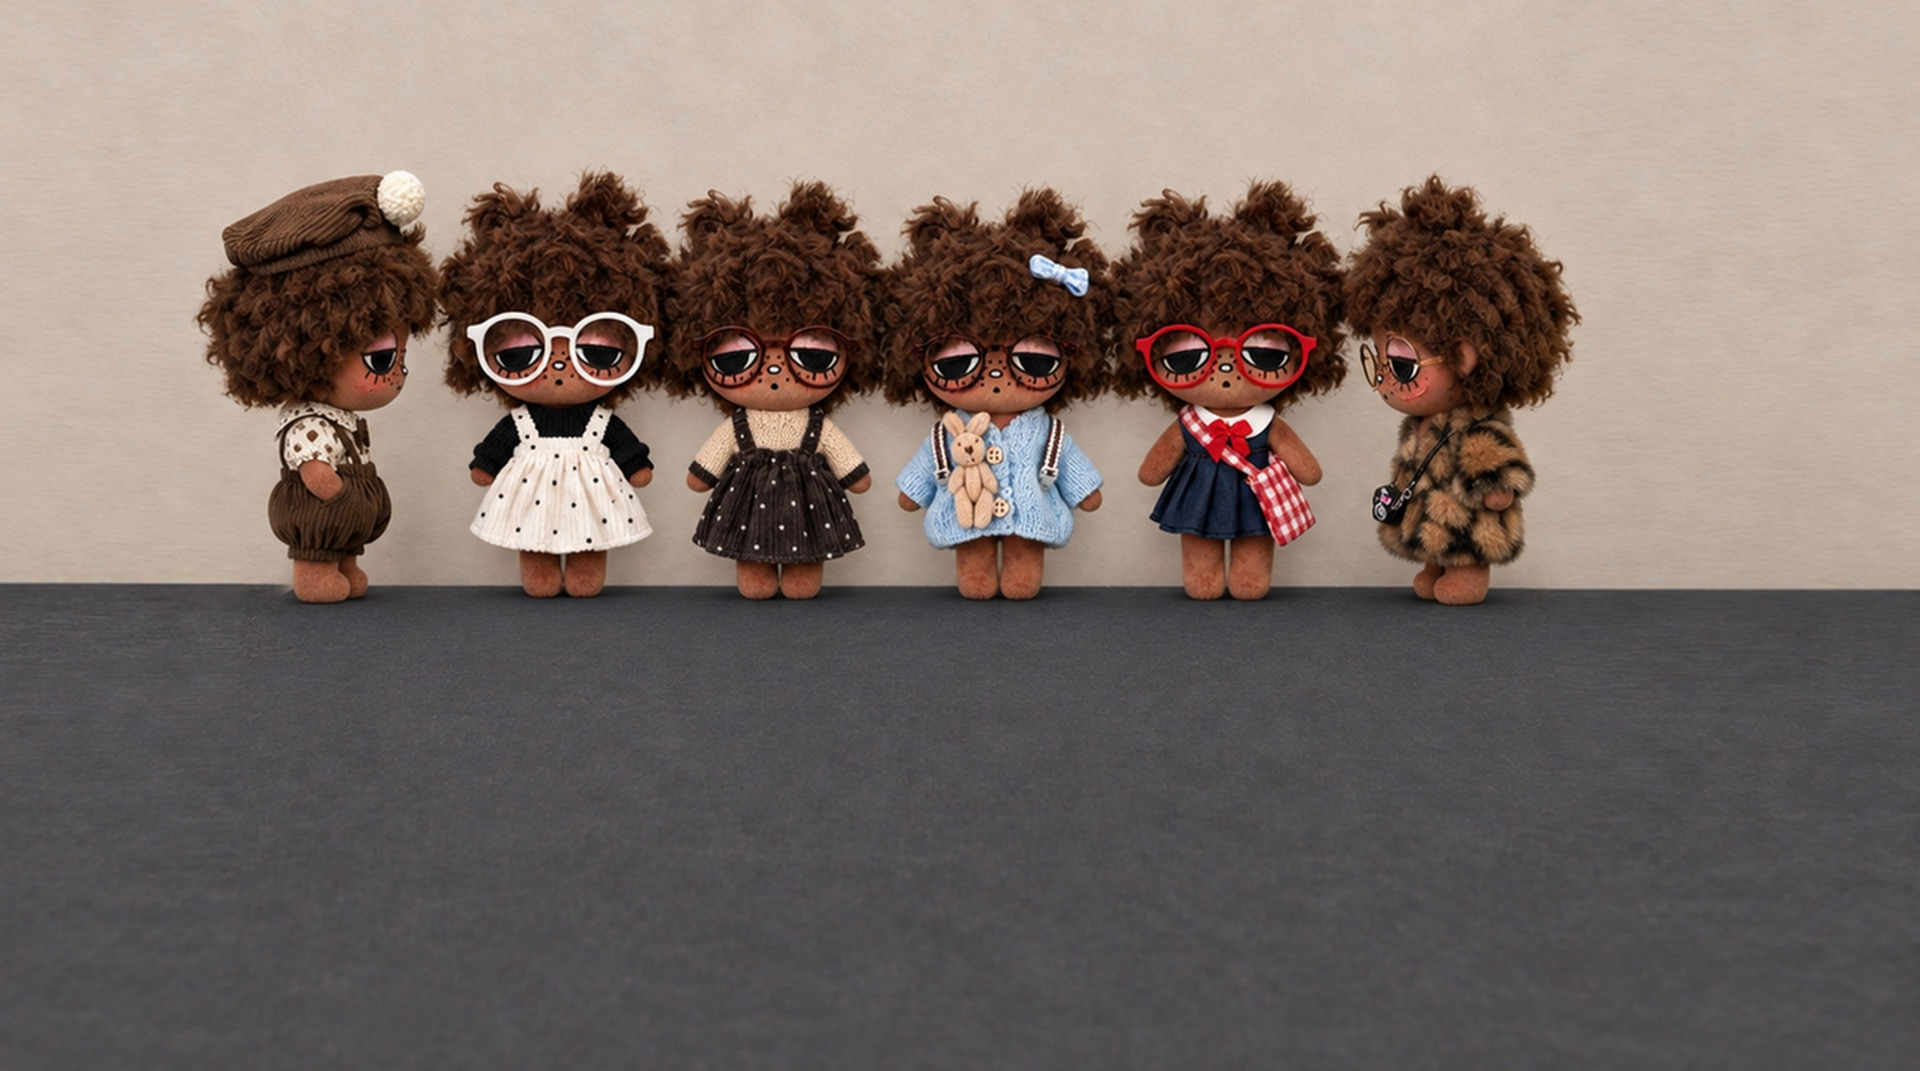
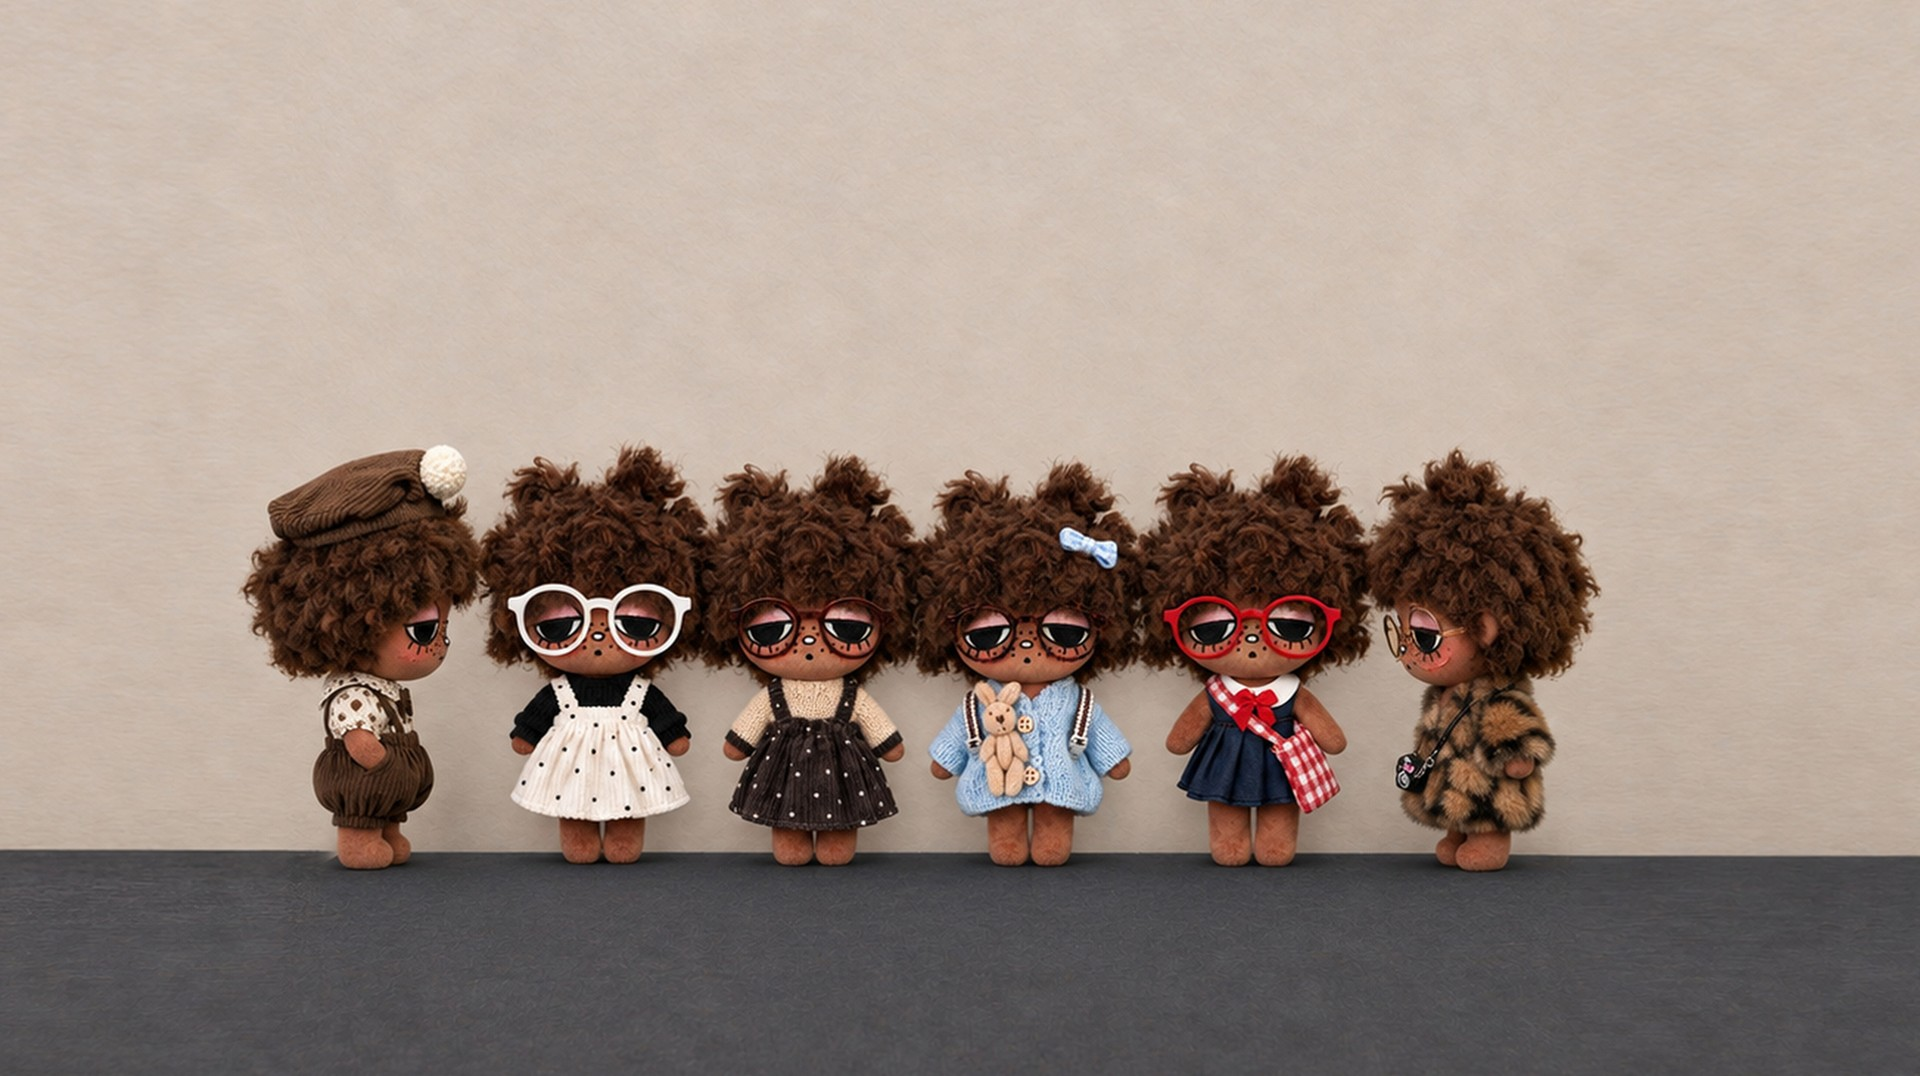
fix(hero): match provided design references for all 5 slides
Root causes found by comparing user-provided correct/incorrect screenshots:
- Series heroes (slides 3-5) used raw crops where dolls sat high with 25-44%
  empty bottom space, so titles overlapped the dolls. Re-composited heroes
  from the click-page PSD layers (bg + doll layers) so dolls sit centered
  (content 33-91% / 40-82% / 43-100% of frame, matching design refs).
- Text positions were computed against the full viewport instead of the
  image area below the sticky header; now anchored via
  calc(var(--header-h) + Nvh) to design-measured percentages.
- Slide 1: wordmark at 15.3% of image area, two-line slogan at 30.7%
  (copy confirmed as 让想象落地/让陪伴发生 from the reference shots).
- Slide 2 promo: doll enlarged (60% width, bottom-anchored, cropped to
  subject), bags grid 45% width at y15-75%, copy PNG at y72-92%.
Verified via headless-Chrome screenshots of all 5 slides (desktop 1440x900
and mobile 375x812) with pixel/OCR comparison against the references.

diff --git a/src/components/home/HeroCarousel.tsx b/src/components/home/HeroCarousel.tsx
@@ -10,12 +10,14 @@ export type HeroSlide = HeroSlideData;
 const SWIPE_THRESHOLD = 40;
 
 /**
- * 首页头图轮播(设计稿版式):整图 object-contain 居中(不截断,补图边缘底色)。
- * 屏 1:is.offy 手写体字标(顶部居中)+ 两行 slogan「让想象发生/让陪伴发生」;
- * 屏 2:PSD「头图-活动奖励」合成屏(白底 + 左玩偶 + 右 2×2 包包图 + 左下文案 PNG);
- * 屏 3-5:系列整图 + 顶部居中「OFFY+系列名」标题 PNG,整图可点跳对应系列页;
- * 底部居中横线指示条 + 右下角 ←/→ 深色箭头;自动播放 + 交叉淡入 + 触摸滑动。
- * 所有文字层 top ≥ 128px,避开 sticky header(112px)遮挡。
+ * 首页头图轮播(设计稿精确还原,5 屏)。
+ * 布局基准:图片区 = 视口去掉 sticky header(112px)后的区域,
+ * 文字位置全部以图片区百分比定位(与设计稿实测一致):
+ * - 屏 1:is.offy 字标顶 15% 图区(高 8%),slogan 两行顶 30%/41%(字高 6.4%);
+ * - 屏 2:促销合成屏 —— 玩偶 x12-45%/y15-75%,包包 2×2 x55-95%/y20-70%,
+ *   文案 PNG 底部 y82%;
+ * - 屏 3-5:系列图(PSD 头图区合成,玩偶垂直居中)+ 标题 PNG 顶 23% 图区。
+ * 底部横线指示条 + 右下角 ←/→ 箭头;自动播放 + 交叉淡入 + 触摸滑动。
  */
 export function HeroCarousel({
   slides,
@@ -37,43 +39,41 @@ export function HeroCarousel({
     return () => clearInterval(id);
   }, [slides.length, intervalMs]);
 
-  /** 屏 2:PSD「头图-活动奖励」合成屏(白底 + 左玩偶 + 右 2×2 包包图 + 文案 PNG)。 */
+  /** 屏 2:促销合成屏(白底 + 左大玩偶 + 右 2×2 包包 + 底部文案 PNG)。 */
   const renderPromo = (s: HeroSlide) => (
     <div className="absolute inset-0 bg-white">
-      <div className="relative mx-auto flex h-full max-w-7xl items-center justify-center gap-8 px-6 md:gap-16 lg:px-8">
-        {/* 左:玩偶图(PSD offy_middle_character) */}
-        <div className="relative h-[70%] w-[46%] max-w-2xl">
-          <Image
-            src={s.promo!.doll}
-            alt=""
-            fill
-            priority
-            sizes="(max-width: 768px) 46vw, 40vw"
-            className="object-contain object-center"
-          />
-        </div>
-        {/* 右:2×2 包包图(PSD offy包电商图1-4) */}
-        <div className="grid w-[34%] max-w-md grid-cols-2 gap-3 md:gap-5">
-          {s.promo!.bags.map((bag) => (
-            <div key={bag} className="relative aspect-square">
-              <Image
-                src={bag}
-                alt=""
-                fill
-                sizes="(max-width: 768px) 17vw, 12vw"
-                className="object-contain object-center"
-              />
-            </div>
-          ))}
-        </div>
+      {/* 玩偶(PSD 布局: 宽 63% 视口,贴底;本体已裁切) */}
+      <div className="absolute left-[-5%] top-[10%] h-[70%] w-[60%]">
+        <Image
+          src={s.promo!.doll}
+          alt=""
+          fill
+          priority
+          sizes="60vw"
+          className="object-contain object-bottom"
+        />
       </div>
-      {/* 左下:促销文案 PNG(PSD 文字层导出,精确字体) */}
-      <div className="absolute bottom-[10%] left-6 md:left-12">
+      {/* 包包 2×2: x 50-95%, y 15-75%(设计稿) */}
+      <div className="absolute right-[5%] top-[15%] grid w-[45%] grid-cols-2 gap-4 md:gap-6">
+        {s.promo!.bags.map((bag) => (
+          <div key={bag} className="relative aspect-square">
+            <Image
+              src={bag}
+              alt=""
+              fill
+              sizes="20vw"
+              className="object-contain object-center"
+            />
+          </div>
+        ))}
+      </div>
+      {/* 文案 PNG: 左下(设计稿 y 72-92%,x 12% 起) */}
+      <div className="absolute bottom-[8%] left-[12%]">
         {/* eslint-disable-next-line @next/next/no-img-element */}
         <img
           src={s.promo!.text}
           alt={locale === "zh" ? "即日起，任意购买三个公仔以上，送offy包包" : "Buy any 3 plush dolls, get an Offy bag free"}
-          className="w-[46vw] max-w-xl md:w-[30vw]"
+          className="w-[52vw] max-w-3xl"
         />
       </div>
     </div>
@@ -81,28 +81,33 @@ export function HeroCarousel({
 
   const renderOverlay = (s: HeroSlide) => (
     <>
-      {/* 屏 1:is.offy 手写体字标(顶部居中,PSD LOGO 图层)+ 两行 slogan */}
+      {/* 屏 1:is.offy 字标(顶 15.3% 图区)+ 两行 slogan(顶 30.7% 图区)。
+          定位基准:图片区 = 视口 - header(112px),top = header + pct*87.6vh。 */}
       {s.wordmark && (
-        <div className="absolute inset-x-0 top-[15%] flex flex-col items-center gap-4 md:top-[16%] md:gap-6">
-          {/* eslint-disable-next-line @next/next/no-img-element */}
-          <img
-            src="/assets/brand/is-offy-wordmark.png"
-            alt="is.offy"
-            className="w-[34%] max-w-md md:w-[22%]"
-          />
-          <p className="whitespace-pre-line text-center text-lg font-bold leading-relaxed tracking-[0.2em] text-ink md:text-2xl">
-            {locale === "zh" ? s.text!.zh : s.text!.en}
-          </p>
-        </div>
+        <>
+          <div className="absolute inset-x-0 top-[calc(var(--header-h)+13.4vh)] flex justify-center">
+            {/* eslint-disable-next-line @next/next/no-img-element */}
+            <img
+              src="/assets/brand/is-offy-wordmark.png"
+              alt="is.offy"
+              className="h-[7.6vh] w-auto max-w-none"
+            />
+          </div>
+          <div className="absolute inset-x-0 top-[calc(var(--header-h)+24.5vh)] px-6 text-center">
+            <p className="whitespace-pre-line text-[5.6vh] font-bold leading-[1.65] tracking-[0.15em] text-ink">
+              {locale === "zh" ? s.text!.zh : s.text!.en}
+            </p>
+          </div>
+        </>
       )}
-      {/* 屏 3-5:「OFFY + 系列名」标题 PNG(PSD 文字层导出,顶部居中) */}
+      {/* 屏 3-5:标题 PNG(顶 23.4% 图区) */}
       {s.titleImage && (
-        <div className="absolute inset-x-0 top-[15%] flex justify-center px-6 md:top-[16%]">
+        <div className="absolute inset-x-0 top-[calc(var(--header-h)+20.5vh)] flex justify-center px-6">
           {/* eslint-disable-next-line @next/next/no-img-element */}
           <img
             src={s.titleImage}
             alt={locale === "zh" ? "OFFY 系列头图" : "OFFY series hero"}
-            className="w-[42%] max-w-lg md:w-[28%]"
+            className="w-[42%] max-w-xl md:w-[38%]"
           />
         </div>
       )}

diff --git a/src/components/home/HeroCarousel.test.tsx b/src/components/home/HeroCarousel.test.tsx
@@ -30,7 +30,7 @@ const slides: HeroSlide[] = [
     image: "/assets/hero/hero-01.jpg",
     bg: "#babbb9",
     wordmark: true,
-    text: { zh: "让想象发生\n让陪伴发生", en: "Let imagination happen\nLet companionship happen" },
+    text: { zh: "让想象落地\n让陪伴发生", en: "Let imagination land\nLet companionship happen" },
   },
   {
     image: "/assets/hero/promo/doll.png",
@@ -89,7 +89,7 @@ describe("HeroCarousel", () => {
   it("renders the slide-1 two-line slogan", () => {
     render(<HeroCarousel slides={slides} locale="zh" />);
     // whitespace-pre-line 下 DOM 文本含换行,用正则匹配两行内容
-    expect(screen.getByText(/让想象发生/)).toBeInTheDocument();
+    expect(screen.getByText(/让想象落地/)).toBeInTheDocument();
     expect(screen.getByText(/让陪伴发生/)).toBeInTheDocument();
   });
 
@@ -126,7 +126,7 @@ describe("HeroCarousel", () => {
 
   it("localizes overlay text for en", () => {
     render(<HeroCarousel slides={slides} locale="en" />);
-    expect(screen.getByText(/Let imagination happen/)).toBeInTheDocument();
+    expect(screen.getByText(/Let imagination land/)).toBeInTheDocument();
   });
 
   it("advances on next arrow and goes back on prev arrow", () => {

diff --git a/src/lib/content.ts b/src/lib/content.ts
@@ -23,7 +23,7 @@ export const newsItems: NewsItem[] = [
 /**
  * 首页头图轮播(设计稿精确还原):5 屏。
  * 屏 1 品牌全员图(hero-01):顶部居中 is.offy 手写体字标(PSD LOGO 图层)
- *   + 两行 slogan「让想象发生 / 让陪伴发生」,不可点击;
+ *   + 两行 slogan「让想象落地 / 让陪伴发生」,不可点击;
  * 屏 2 促销合成屏(PSD「头图-活动奖励」组):白底 + 左玩偶图 + 右 2×2 包包图
  *   + 左下促销文案 PNG(PSD 文字层导出,精确字体),不可点击;
  * 屏 3-5 系列图(hero-02 公主lady / hero-04 时尚潮流生活 / hero-03 趣味生活):
@@ -52,7 +52,7 @@ export const heroSlides: HeroSlideData[] = [
     image: "/assets/hero/hero-01.jpg",
     bg: "#babbb9",
     wordmark: true,
-    text: { zh: "让想象发生\n让陪伴发生", en: "Let imagination happen\nLet companionship happen" },
+    text: { zh: "让想象落地\n让陪伴发生", en: "Let imagination land\nLet companionship happen" },
   },
   {
     image: "/assets/hero/promo/doll.png",
